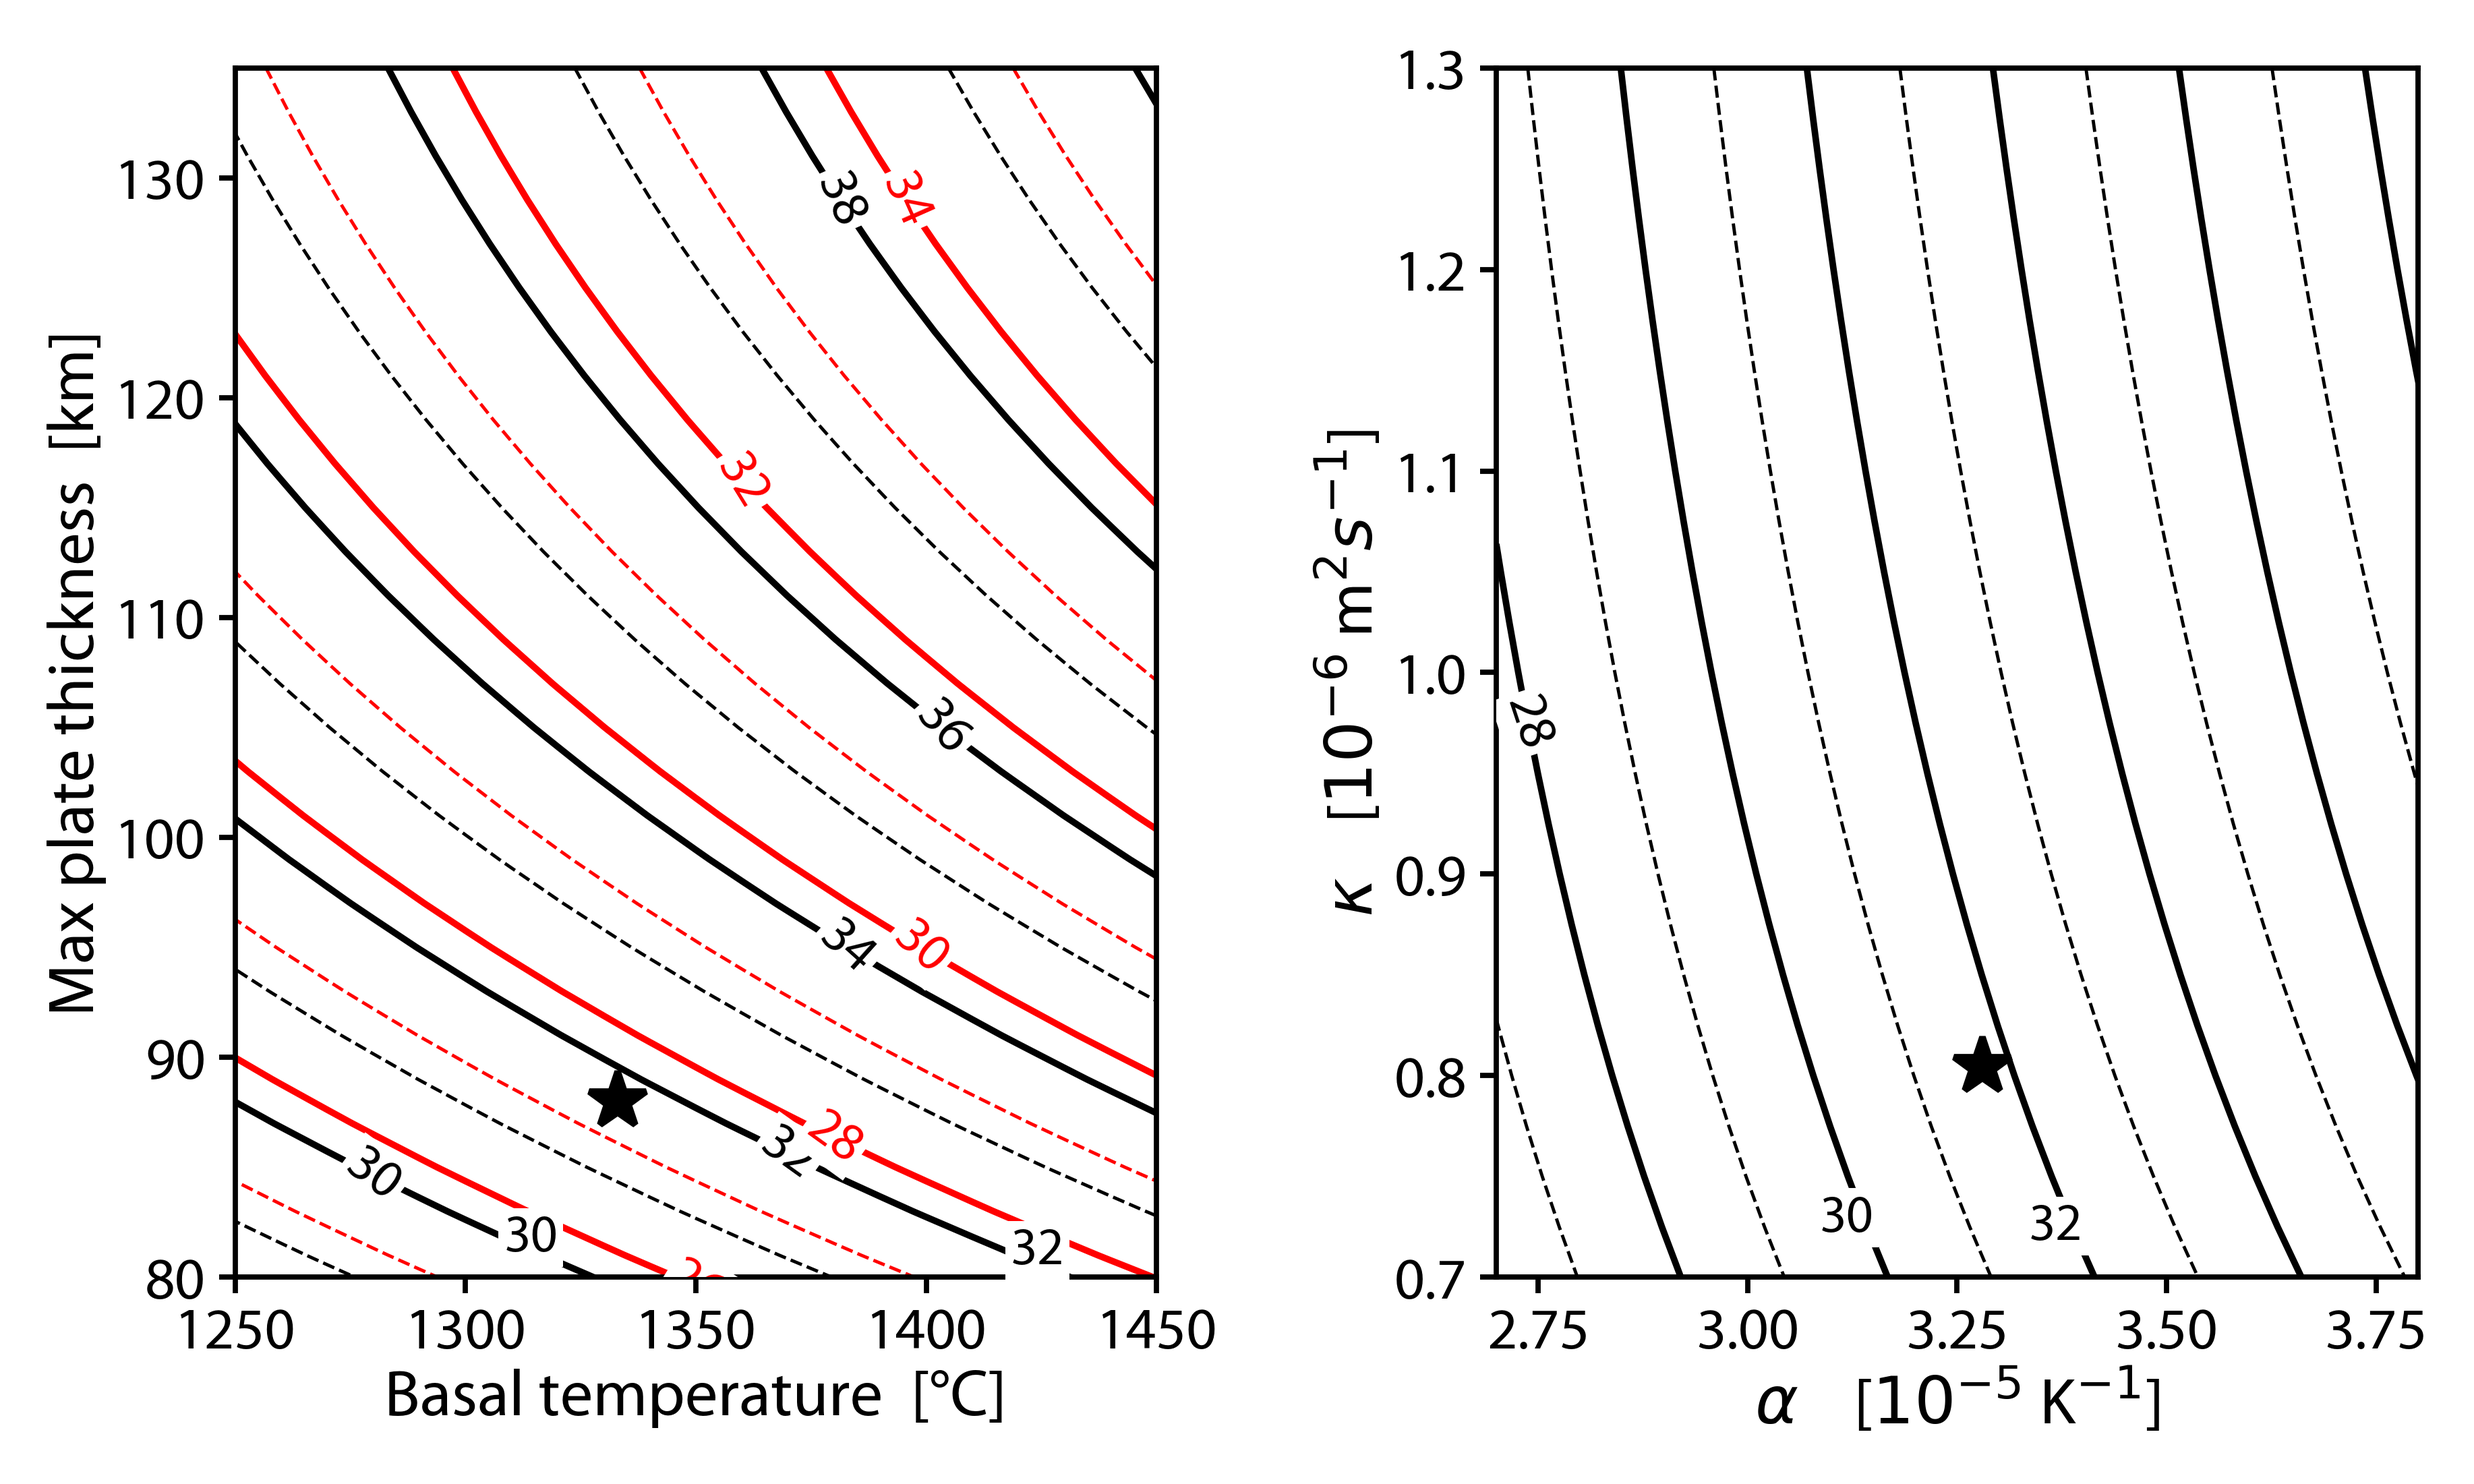
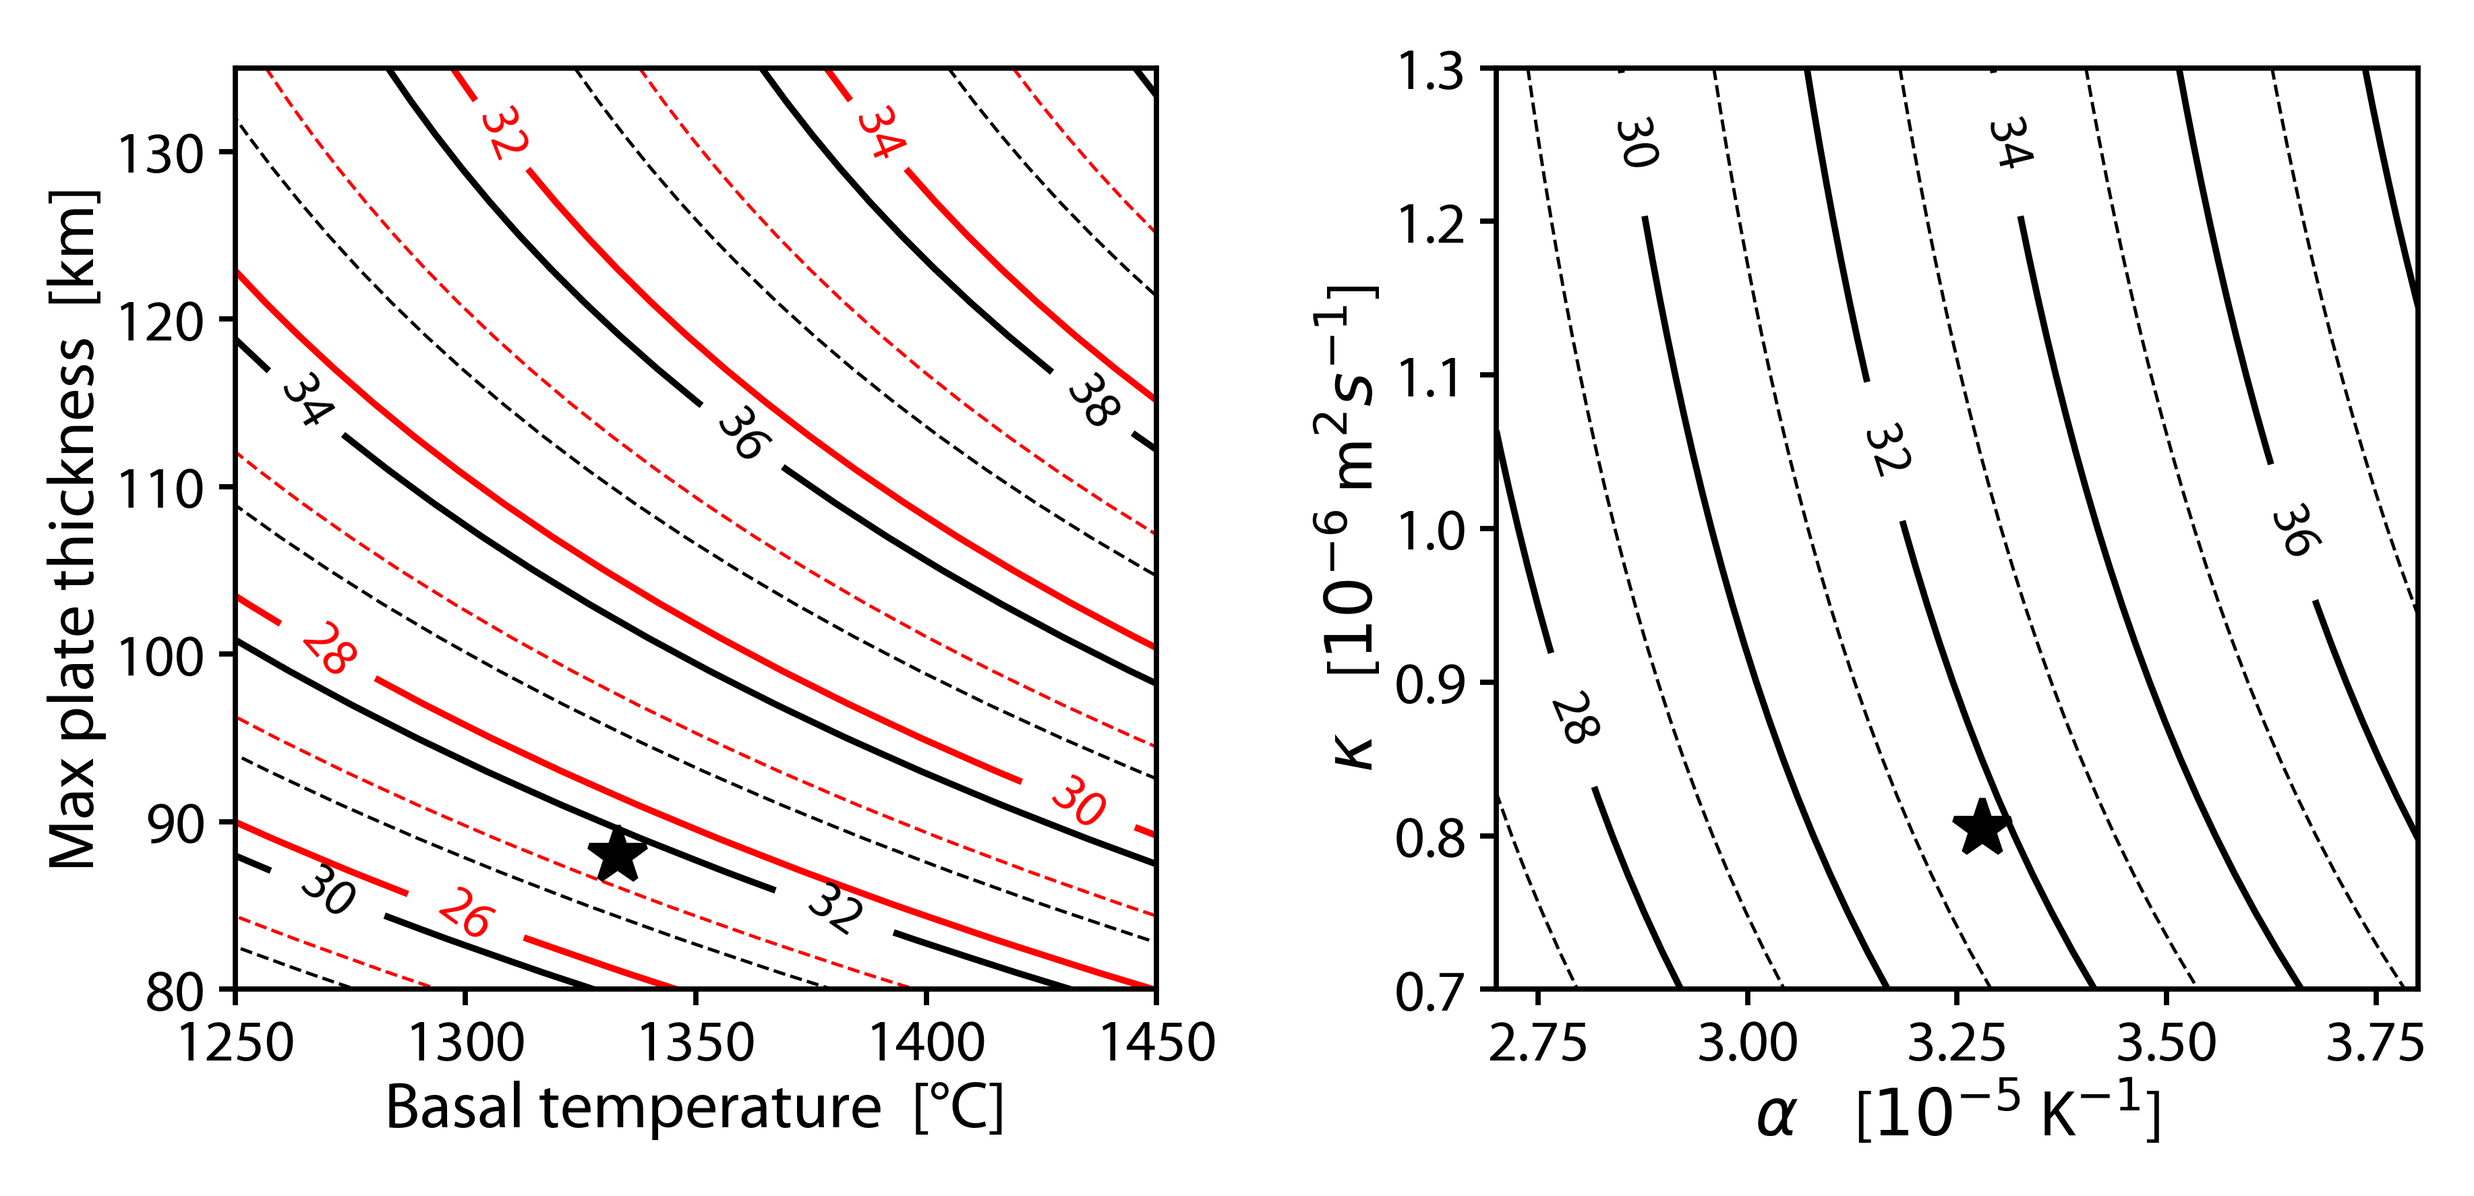
style: square panels and non-colliding contour labels in the DP exploration figure
Both panels get a square axes box. That change moved the contour lines enough
to expose the label placement: inline=False dropped a boxed number at each
segment midpoint, including on the axis edge where it was clipped, and the
helper forcing right-edge labels for levels 30 and 32 now duplicated labels
that clabel already placed. Labels are now inline, one per level, at the point
on the longest visible run farthest from the star and from any label already
placed, with the no-crust family avoiding the crust family. The contoured
values are untouched.

diff --git a/analysis/observations/plot_param_exploration.py b/analysis/observations/plot_param_exploration.py
@@ -50,6 +50,29 @@ Ma_to_s = 1e6 * 3.154e7
 plotname=''.join(['plots/DP-param-exploration.png'])
 plotname_pdf=''.join(['plots/DP-param-exploration.pdf'])
 
+def _label_points(cs, xlim, ylim, avoid, placed, pad=0.07):
+    """One label point per contour level: the point on the level's longest
+    visible run that sits farthest from the reference star and from the labels
+    already placed, so the crust and no-crust families do not collide."""
+    xr, yr = xlim[1] - xlim[0], ylim[1] - ylim[0]
+    pts = []
+    for segs in cs.allsegs:
+        best = None
+        for seg in segs:
+            vis = seg[(seg[:, 0] >= xlim[0] + pad * xr) & (seg[:, 0] <= xlim[1] - pad * xr) &
+                      (seg[:, 1] >= ylim[0] + pad * yr) & (seg[:, 1] <= ylim[1] - pad * yr)]
+            if len(vis) > 1 and (best is None or len(vis) > len(best)):
+                best = vis
+        if best is None:
+            continue
+        others = placed + [avoid]
+        clear = lambda p: min(((p[0] - q[0]) / xr)**2 + ((p[1] - q[1]) / yr)**2 for q in others)
+        p = max(best[:: max(1, len(best) // 40)], key=clear)
+        placed.append((p[0], p[1]))
+        pts.append((p[0], p[1]))
+    return pts
+
+
 # ------------------------------------------------
 # --- Set up the map ---
 # ------------------------------------------------
@@ -99,40 +122,20 @@ ax3 = plt.subplot(G[0, 0])
 contour_levels1 = np.arange(20, 40+2, 2)
 contour_levels1_minor = np.arange(21, 40, 2)
 contours1 = ax3.contour(T_vals, plate_thick_vals_km, DPmean_thresh_grid, levels=contour_levels1, colors='black', linewidths=1, linestyles='solid')
-labels1 = ax3.clabel(contours1, levels=contour_levels1, inline=False, fontsize=8, fmt='%d')
-for txt in labels1:
-    txt.set_bbox(dict(boxstyle='square,pad=0.1', fc='white', ec='none'))
 ax3.contour(T_vals, plate_thick_vals_km, DPmean_thresh_grid, levels=contour_levels1_minor, colors='black', linewidths=0.5, linestyles='dashed')
 
 contour_levels2 = np.arange(20, 40+2, 2)
 contour_levels2_minor = np.arange(21, 40, 2)
 contours2 = ax3.contour(T_vals, plate_thick_vals_km, DPmean_thresh_grid_nocrust, levels=contour_levels2, colors='red', linewidths=1, linestyles='solid')
-labels2 = ax3.clabel(contours2, levels=contour_levels2, inline=False, fontsize=8, fmt='%d')
-for txt in labels2:
-    txt.set_bbox(dict(boxstyle='square,pad=0.1', fc='white', ec='none'))
 ax3.contour(T_vals, plate_thick_vals_km, DPmean_thresh_grid_nocrust, levels=contour_levels2_minor, colors='red', linewidths=0.5, linestyles='dashed')
 
-# Force right-side labels on lines that exit through the bottom before reaching T=1450
-def _rightmost_label(ax, cs, level, xlim, ylim, color, fontsize=8):
-    lidx = np.where(np.isclose(cs.levels, level))[0]
-    if len(lidx) == 0:
-        return
-    best_x, best_y = -np.inf, None
-    for seg in cs.allsegs[lidx[0]]:
-        mask = (seg[:,0] >= xlim[0]) & (seg[:,0] <= xlim[1]) & \
-               (seg[:,1] >= ylim[0]) & (seg[:,1] <= ylim[1])
-        if mask.any():
-            pts = seg[mask]
-            i = np.argmax(pts[:,0])
-            if pts[i,0] > best_x:
-                best_x, best_y = pts[i,0], pts[i,1]
-    if best_y is not None:
-        ax.text(best_x, best_y, str(int(level)), fontsize=fontsize, color=color,
-                ha='right', va='bottom',
-                bbox=dict(boxstyle='square,pad=0.1', fc='white', ec='none'))
-
-_rightmost_label(ax3, contours1, 30, (1250, 1450), (80, 135), 'black')
-_rightmost_label(ax3, contours1, 32, (1250, 1450), (80, 135), 'black')
+# label both families once the two sets of lines exist, keeping them apart
+xlim3, ylim3 = (1250, 1450), (80, 135)
+placed3 = []
+ax3.clabel(contours1, inline=True, inline_spacing=2, fontsize=8, fmt='%d',
+           manual=_label_points(contours1, xlim3, ylim3, (Tm, plate_thick/1e3), placed3))
+ax3.clabel(contours2, inline=True, inline_spacing=2, fontsize=8, fmt='%d',
+           manual=_label_points(contours2, xlim3, ylim3, (Tm, plate_thick/1e3), placed3))
 
 # plot paramters of the map
 ax3.plot(Tm, plate_thick/1e3, 'k*', markersize=9)
@@ -145,6 +148,7 @@ ax3.set_ylim(80, 135)
 ax3.set_xticks(np.arange(1250, 1450+50, 50))
 ax3.set_yticks(np.arange(80, 131, 10))
 ax3.tick_params(axis='both', labelsize=9)
+ax3.set_box_aspect(1)
 ax3.labelsize = 12
 
 
@@ -176,13 +180,12 @@ alpha_vals_e5 = alpha_vals/1e-5
 contour_levels3 = np.arange(20, 44+2, 2)
 contour_levels3_minor = np.arange(21, 44, 2)
 contours3 = ax4.contour(alpha_vals_e5, k_vals_e6, DPmean_thresh_grid2, levels=contour_levels3, colors='black', linewidths=1, linestyles='solid')
-labels3 = ax4.clabel(contours3, levels=contour_levels3, inline=False, fontsize=8, fmt='%d')
-for txt in labels3:
-    txt.set_bbox(dict(boxstyle='square,pad=0.1', fc='white', ec='none'))
 ax4.contour(alpha_vals_e5, k_vals_e6, DPmean_thresh_grid2, levels=contour_levels3_minor, colors='black', linewidths=0.5, linestyles='dashed')
 
-_rightmost_label(ax4, contours3, 30, (2.7, 3.8), (0.7, 1.3), 'black')
-_rightmost_label(ax4, contours3, 32, (2.7, 3.8), (0.7, 1.3), 'black')
+xlim4, ylim4 = (2.7, 3.8), (0.7, 1.3)
+ax4.clabel(contours3, inline=True, inline_spacing=2, fontsize=8, fmt='%d',
+           manual=_label_points(contours3, xlim4, ylim4, (alpha/1e-5, diffusivity/1e-6), []))
+
 
 # plot paramters of the map
 ax4.plot(alpha/1e-5, diffusivity/1e-6, 'k*', markersize=9)
@@ -193,6 +196,7 @@ ax4.set_ylabel(r'$\kappa$    [$10^{-6}$ m$^{2}s^{-1}$]')
 ax4.set_xlim(2.7, 3.8)
 ax4.set_ylim(0.7, 1.3)
 ax4.tick_params(axis='both', labelsize=9)
+ax4.set_box_aspect(1)
 ax4.labelsize = 12
 
 
